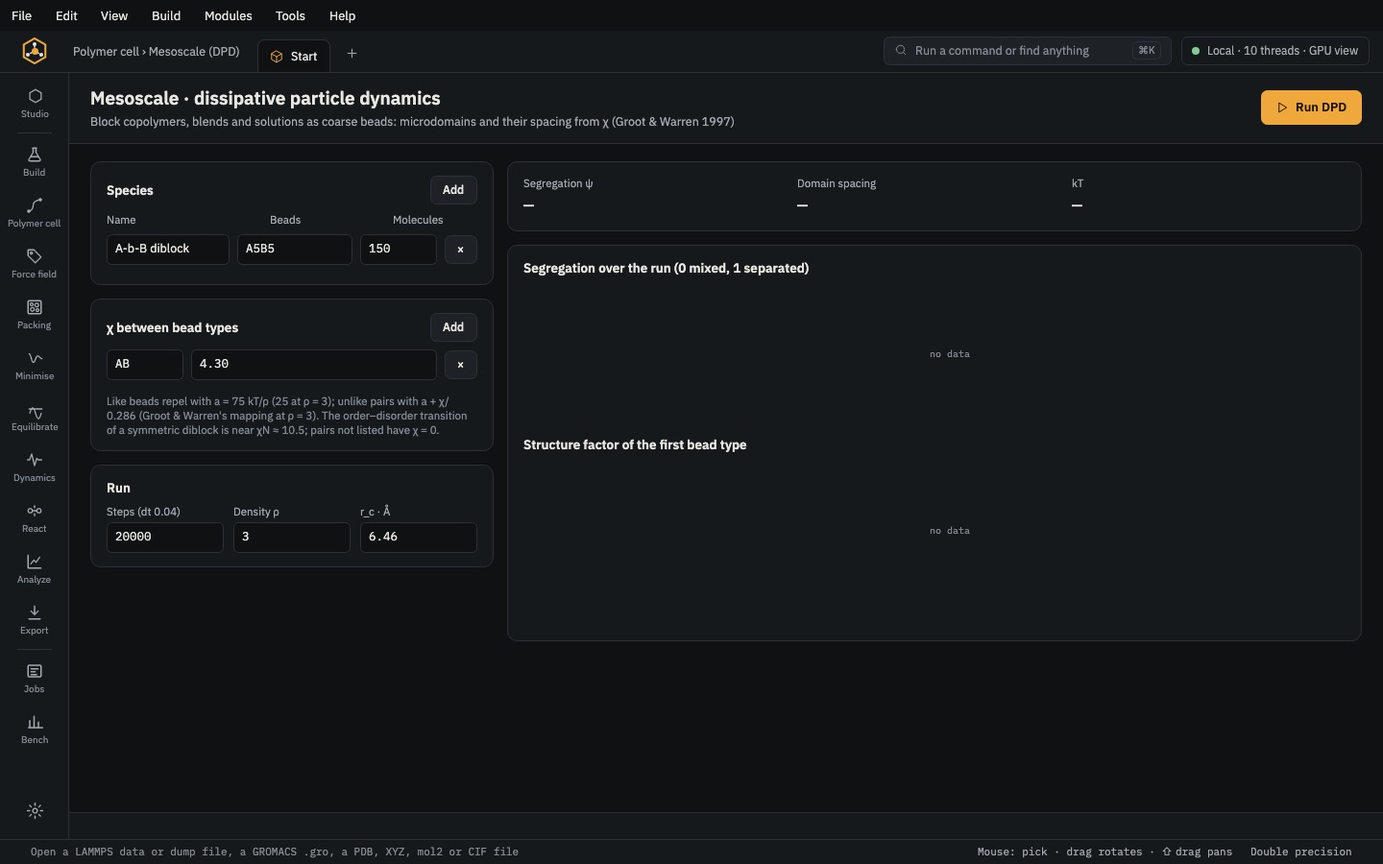
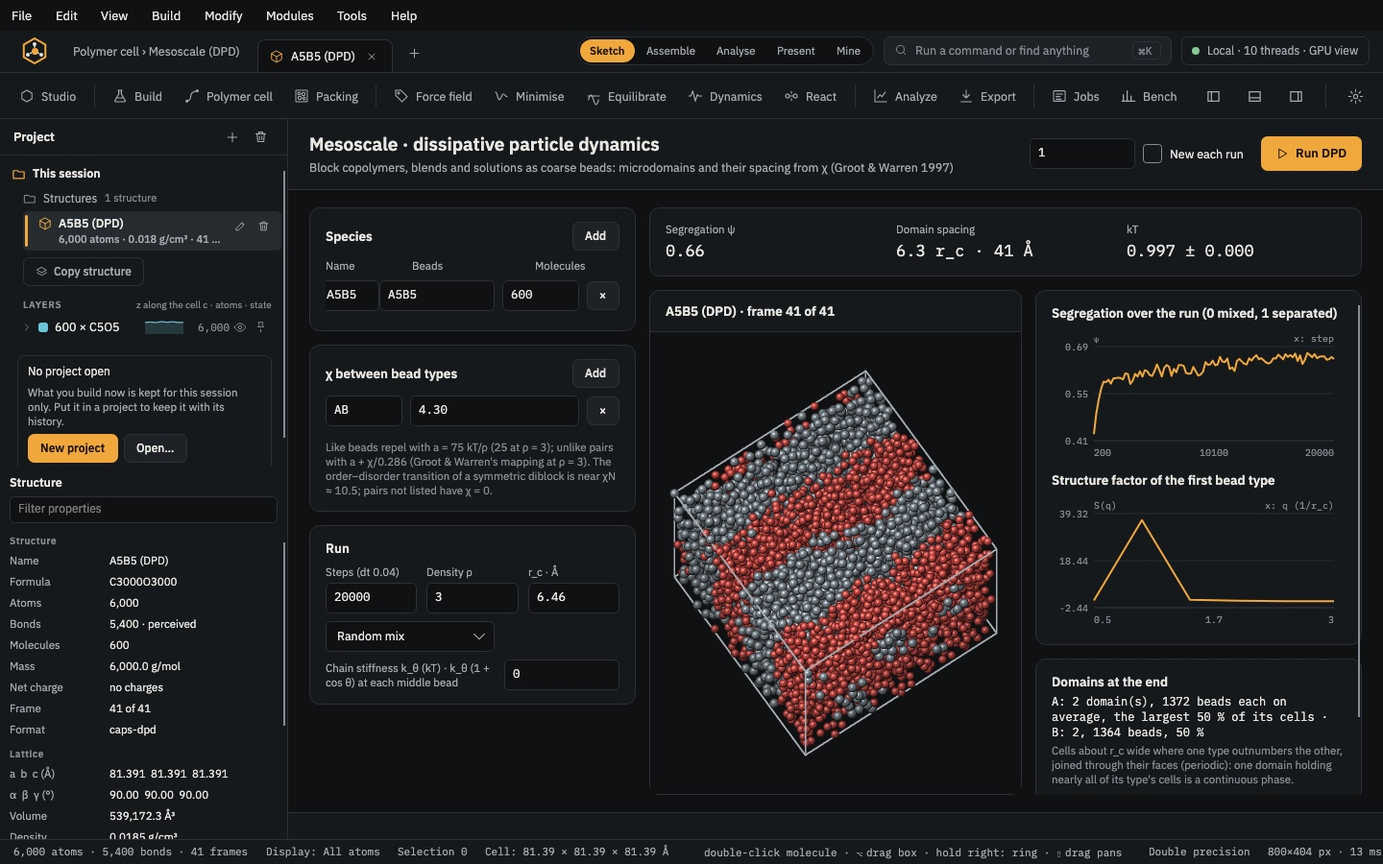
Module pages for DPD and Adsorption & sorption show real runs. The DPD page had no structure view, and its finished run opened on frame 1 (the random start), so the domains were never shown; the page now has its own view of the run's beads (space filling, coloured by bead type, in the cell) at the l

diff --git a/docs/modules/adsorption.html b/docs/modules/adsorption.html
@@ -24,8 +24,9 @@
 <nav class="toc" aria-label="On this page"><h2>Modules</h2><h3 class="stage-h"><i class="dot st-start"></i>Get started</h3><a href="start.html">Start</a><a href="studio.html">Studio</a><h3 class="stage-h"><i class="dot st-build"></i>Build</h3><a href="molecule.html">Molecule builder</a><a href="polymer.html">Polymer builder</a><a href="polymer-cell.html">Polymer cell</a><a href="blend.html">Blend</a><a href="packing.html">Packing</a><a href="solvation.html">Solvation</a><a href="crystal.html">Crystal</a><a href="surface.html">Surface &amp; interface</a><a href="nanostructure.html">Nanostructure</a><h3 class="stage-h"><i class="dot st-prepare"></i>Prepare</h3><a href="force-field.html">Force field</a><a href="minimise.html">Minimise</a><a href="equilibrate.html">Equilibrate</a><h3 class="stage-h"><i class="dot st-run"></i>Run</h3><a href="dynamics.html">Dynamics</a><a href="coarse-grained.html">Coarse-grained</a><a href="dpd.html">DPD</a><a href="adsorption.html" aria-current="page" class="on">Adsorption &amp; sorption</a><a href="dft.html">DFT workbench</a><h3 class="stage-h"><i class="dot st-react"></i>React</h3><a href="react.html">React</a><h3 class="stage-h"><i class="dot st-out"></i>Analyse &amp; export</h3><a href="analyze.html">Analyze</a><a href="export.html">Export</a><a href="jobs.html">Jobs</a><a href="project.html">Project &amp; methods</a></nav>
 <main>
 <header class="mod-hero"><p class="eyebrow"><i class="dot st-run"></i>Run · module 18</p><h1>Adsorption &amp; sorption</h1><p class="lede">Two Monte Carlo tools on a fixed substrate: the adsorption locator places molecules on a surface or in a pore by simulated annealing; sorption computes solubility, Henry constants and isotherms.</p><p class="where"><b>Open it</b> <span class="ui">Modules</span><i>›</i><span class="ui">Analysis</span><i>›</i><span class="ui">Adsorption locator…</span></p><dl class="io"><div><dt>You start with</dt><dd>A substrate (slab, crystal, pore or polymer cell) with a force field, and the adsorbate as SMILES.</dd></div><div><dt>You get</dt><dd>Adsorption energies and the lowest configurations; or Widom solubility and a GCMC isotherm.</dd></div></dl></header>
-<figure class="shot"><button type="button" class="zoom" aria-label="Show full size"><img src="../manual/img/25_adsorption.jpg" alt="Adsorption locator: the adsorbates, the search region and the lowest configurations found." width="1440" height="900" loading="eager" decoding="async"></button><figcaption><strong>Adsorption locator</strong>: the adsorbates, the search region and the lowest configurations found.</figcaption></figure>
+<figure class="shot"><button type="button" class="zoom" aria-label="Show full size"><img src="../manual/img/25_adsorption.jpg" alt="Adsorption locator: 16 CO₂ annealed above a two-layer graphene slab (30 × 30 Å, 672 fixed atoms, UFF), 3 cycles of 20,000 steps from 10⁴ K to 100 K. The CO₂ lie flat on the top face; adsorption energy −72.27 kcal/mol, dE/dN −4.98 kcal/mol per CO₂, with the energies sampled at the cold end and the lowest configuration of each cycle." width="1440" height="900" loading="eager" decoding="async"></button><figcaption><strong>Adsorption locator</strong>: 16 CO₂ annealed above a two-layer graphene slab (30 × 30 Å, 672 fixed atoms, UFF), 3 cycles of 20,000 steps from 10⁴ K to 100 K. The CO₂ lie flat on the top face; adsorption energy −72.27 kcal/mol, dE/dN −4.98 kcal/mol per CO₂, with the energies sampled at the cold end and the lowest configuration of each cycle.</figcaption></figure>
 <h2 id="steps">Step by step</h2><ol class="stepper"><li><div><h3>Open the substrate and assign its force field</h3><p>The substrate is held fixed; only the adsorbates move.</p></div></li><li><div><h3>Adsorption locator: add the adsorbates</h3><p>Under <strong>Adsorbates</strong>, <span class="ui">Add</span> each as SMILES (for example <code>O=C=O</code>) with its count.</p></div></li><li><div><h3>Choose where to search</h3><p><span class="ui">Above the substrate&#x27;s top face</span> (default) or <span class="ui">Anywhere in the cell</span>. Cycles 3, steps per cycle 20 000, annealing from 10⁴ K to 100 K.</p></div></li><li><div><h3>Press Locate</h3><p>The <strong>Adsorption energy</strong> table gives dE/dN per component; the lowest configurations become frames you can step through.</p></div></li><li><div><h3>Gas uptake: open Sorption</h3><p><strong>Modules › Analysis › Sorption (gas uptake)…</strong>: pick the sorbate (CO₂, CH₄, N₂, O₂, H₂O, He, H₂ or a SMILES) or a mixture, T, Widom insertions and the GCMC pressures, then <span class="ui">Compute</span>.</p><p>You get the solubility coefficient, Henry constant, the isotherm (mol/kg, cm³(STP)/cm³, q_st), selectivities for a mixture, and a map of where the sorbate sits.</p></div></li></ol>
+<div class="shots2"><figure class="shot"><button type="button" class="zoom" aria-label="Show full size"><img src="../manual/img/25b_sorption.jpg" alt="Sorption: CO₂ in a cis-1,4-polyisoprene (natural rubber) cell, 8 chains of 20 units at 0.85 g/cm³ with PCFF, 300 K. Widom insertion gives S = 1.79 cm³(STP)/(cm³·atm); the GCMC isotherm at 100, 300, 1000 and 3000 kPa reaches 1.12 mol/kg, with q_st from 4.7 to 4.4 kcal/mol." width="1440" height="900" loading="lazy" decoding="async"></button><figcaption><strong>Sorption</strong>: CO₂ in a cis-1,4-polyisoprene (natural rubber) cell, 8 chains of 20 units at 0.85 g/cm³ with PCFF, 300 K. Widom insertion gives S = 1.79 cm³(STP)/(cm³·atm); the GCMC isotherm at 100, 300, 1000 and 3000 kPa reaches 1.12 mol/kg, with q_st from 4.7 to 4.4 kcal/mol.</figcaption></figure></div>
 <h2 id="scripted">The same without the Studio</h2><p class="muted">Every Studio page calls the same core as the <code>caps</code> command and the <code>caps</code> Python package, so a step you clicked can be repeated in a script.</p>
 <div class="tabs" role="tablist"><button role="tab" type="button" aria-selected="true" data-tab="0">Python</button></div>
 <div class="tabpanel" data-panel="0"><div class="code" data-lang="Python"><pre><code>import caps

diff --git a/docs/modules/dpd.html b/docs/modules/dpd.html
@@ -24,8 +24,8 @@
 <nav class="toc" aria-label="On this page"><h2>Modules</h2><h3 class="stage-h"><i class="dot st-start"></i>Get started</h3><a href="start.html">Start</a><a href="studio.html">Studio</a><h3 class="stage-h"><i class="dot st-build"></i>Build</h3><a href="molecule.html">Molecule builder</a><a href="polymer.html">Polymer builder</a><a href="polymer-cell.html">Polymer cell</a><a href="blend.html">Blend</a><a href="packing.html">Packing</a><a href="solvation.html">Solvation</a><a href="crystal.html">Crystal</a><a href="surface.html">Surface &amp; interface</a><a href="nanostructure.html">Nanostructure</a><h3 class="stage-h"><i class="dot st-prepare"></i>Prepare</h3><a href="force-field.html">Force field</a><a href="minimise.html">Minimise</a><a href="equilibrate.html">Equilibrate</a><h3 class="stage-h"><i class="dot st-run"></i>Run</h3><a href="dynamics.html">Dynamics</a><a href="coarse-grained.html">Coarse-grained</a><a href="dpd.html" aria-current="page" class="on">DPD</a><a href="adsorption.html">Adsorption &amp; sorption</a><a href="dft.html">DFT workbench</a><h3 class="stage-h"><i class="dot st-react"></i>React</h3><a href="react.html">React</a><h3 class="stage-h"><i class="dot st-out"></i>Analyse &amp; export</h3><a href="analyze.html">Analyze</a><a href="export.html">Export</a><a href="jobs.html">Jobs</a><a href="project.html">Project &amp; methods</a></nav>
 <main>
 <header class="mod-hero"><p class="eyebrow"><i class="dot st-run"></i>Run · module 17</p><h1>DPD</h1><p class="lede">Mesoscale dissipative particle dynamics: describe species as bead strings, set χ between bead types, and watch blends and block copolymers segregate into domains.</p><p class="where"><b>Open it</b> <span class="ui">Modules</span><i>›</i><span class="ui">Mesoscale (DPD)…</span></p><dl class="io"><div><dt>You start with</dt><dd>Species written as bead strings (for example A5B5) and χ parameters between bead types.</dd></div><div><dt>You get</dt><dd>The segregation ψ, domain spacing, structure factor and the final domains.</dd></div></dl></header>
-<figure class="shot"><button type="button" class="zoom" aria-label="Show full size"><img src="../manual/img/24_dpd.jpg" alt="Mesoscale · dissipative particle dynamics: species, χ between bead types and the segregation over the run." width="1440" height="900" loading="eager" decoding="async"></button><figcaption><strong>Mesoscale · dissipative particle dynamics</strong>: species, χ between bead types and the segregation over the run.</figcaption></figure>
-<h2 id="steps">Step by step</h2><ol class="stepper"><li><div><h3>Add the species</h3><p>Under <strong>Species</strong>, <span class="ui">Add</span> each one with its name, its beads (for example <code>A5B5</code> for a symmetric diblock) and the number of molecules.</p></div></li><li><div><h3>Set χ between bead types</h3><p>Under <strong>χ between bead types</strong>, <span class="ui">Add</span> each pair with its Flory–Huggins χ.</p></div></li><li><div><h3>Set the run</h3><p>Steps (dt 0.04) 20 000, density ρ 3, r_c 6.46 Å. Start from a random mix, or seed lamellae, cylinders or spheres. Chain stiffness k_θ is optional.</p></div></li><li><div><h3>Press Run DPD</h3><p>Follow <strong>Segregation over the run</strong> and the structure factor of the first bead type; the result gives ψ, the domain spacing and the domains at the end.</p></div></li></ol>
+<figure class="shot"><button type="button" class="zoom" aria-label="Show full size"><img src="../manual/img/24_dpd.jpg" alt="Mesoscale · dissipative particle dynamics: 600 symmetric A5B5 diblocks (6,000 beads, ρ = 3) with χ_AB = 4.30 (χN = 43), 20,000 steps from a random mix. The last frame shows two lamellar periods (A grey, B red); ψ rises to 0.66 and S(q) peaks at q = 1.00/r_c, a spacing of 6.3 r_c (41 Å)." width="1440" height="900" loading="eager" decoding="async"></button><figcaption><strong>Mesoscale · dissipative particle dynamics</strong>: 600 symmetric A5B5 diblocks (6,000 beads, ρ = 3) with χ_AB = 4.30 (χN = 43), 20,000 steps from a random mix. The last frame shows two lamellar periods (A grey, B red); ψ rises to 0.66 and S(q) peaks at q* = 1.00/r_c, a spacing of 6.3 r_c (41 Å).</figcaption></figure>
+<h2 id="steps">Step by step</h2><ol class="stepper"><li><div><h3>Add the species</h3><p>Under <strong>Species</strong>, <span class="ui">Add</span> each one with its name, its beads (for example <code>A5B5</code> for a symmetric diblock) and the number of molecules.</p></div></li><li><div><h3>Set χ between bead types</h3><p>Under <strong>χ between bead types</strong>, <span class="ui">Add</span> each pair with its Flory–Huggins χ.</p></div></li><li><div><h3>Set the run</h3><p>Steps (dt 0.04) 20 000, density ρ 3, r_c 6.46 Å. Start from a random mix, or seed lamellae, cylinders or spheres. Chain stiffness k_θ is optional.</p></div></li><li><div><h3>Press Run DPD</h3><p>Follow <strong>Segregation over the run</strong> and the structure factor of the first bead type; the result gives ψ, the domain spacing and the domains at the end, and the page's view shows the beads of the last frame coloured by bead type.</p></div></li></ol>
 <h2 id="next">Where to go next</h2><div class="cards next"><a class="card shot-card" href="analyze.html"><img src="../manual/img/18_analyze.jpg" alt="" loading="lazy" width="1440" height="900"><span class="num"><i class="dot st-out"></i>Analyse &amp; export</span><b>Analyze</b><span>Density, g(r), chain statistics, Tg, moduli, diffusion, free volume, interfaces and crosslink density — each with CSV.</span></a></div>
 <nav class="pager"><a href="coarse-grained.html"><small>Previous</small>Coarse-grained</a><a class="next" href="adsorption.html"><small>Next</small>Adsorption &amp; sorption</a></nav>
 </main>

diff --git a/studio/CapsStudio/Screenshot.cs b/studio/CapsStudio/Screenshot.cs
@@ -119,6 +119,97 @@ internal static class Screenshot
                 for (int k = 0; k < 60; ++k) { Dispatcher.UIThread.RunJobs(); AvaloniaHeadlessPlatform.ForceRenderTimerTick(); Thread.Sleep(25); }
                 Console.WriteLine("cgflow: " + vm.CgwStatus);
             }
+            if (kv[0] == "dpd")   // dpd=SEQ*COUNT[+SEQ*COUNT]|CHI_AB|STEPS: Mesoscale (DPD) run with those species, awaited (e.g. A5B5*600|4.3|20000)
+            {
+                var vm = w.ViewModel;
+                var inv = System.Globalization.CultureInfo.InvariantCulture;
+                var f = kv[1].Split('|');
+                vm.OpenDpd();
+                vm.DpdSpecies.Clear();
+                foreach (var sp in f[0].Split('+'))
+                {
+                    var q = sp.Split('*');
+                    vm.DpdSpecies.Add(new ViewModels.DpdSpeciesRow { Name = q[0], Sequence = q[0], Count = decimal.Parse(q[1], inv) });
+                }
+                vm.DpdChis.Clear();
+                vm.DpdChis.Add(new ViewModels.DpdChiRow { Pair = "AB", Chi = decimal.Parse(f[1], inv) });
+                if (f.Length > 2) vm.DpdSteps = decimal.Parse(f[2], inv);
+                var t = vm.RunDpd();
+                while (!t.IsCompleted) { Dispatcher.UIThread.RunJobs(); AvaloniaHeadlessPlatform.ForceRenderTimerTick(); Thread.Sleep(20); }
+                for (int k = 0; k < 80; ++k) { Dispatcher.UIThread.RunJobs(); AvaloniaHeadlessPlatform.ForceRenderTimerTick(); Thread.Sleep(25); }
+                Console.WriteLine("dpd: " + vm.Status + (vm.DpdHasError ? " · error " + vm.DpdError : "") + " · " + vm.DpdNote + " · " + vm.DpdDomains);
+            }
+            if (kv[0] == "pageview")   // pageview=YAW,PITCH[,ZOOM]: the open page's own structure view turned to that camera
+            {
+                var c = kv[1].Split(',').Select(x => double.Parse(x, System.Globalization.CultureInfo.InvariantCulture)).ToArray();
+                foreach (var mv in w.GetVisualDescendants().OfType<Views.MolView>().Where(m => m.Name == "View" && m.IsEffectivelyVisible))
+                    mv.Camera = new Interop.CapsCamera { Yaw = c[0], Pitch = c[1], Zoom = c.Length > 2 ? c[2] : 1.0 };
+                for (int k = 0; k < 60; ++k) { Dispatcher.UIThread.RunJobs(); AvaloniaHeadlessPlatform.ForceRenderTimerTick(); Thread.Sleep(25); }
+            }
+            if (kv[0] == "pagescroll")   // pagescroll=end: the open page's own scroll viewers to their end (the side panels stay)
+            {
+                for (int k = 0; k < 10; ++k) { Dispatcher.UIThread.RunJobs(); AvaloniaHeadlessPlatform.ForceRenderTimerTick(); Thread.Sleep(20); }
+                foreach (var pg in w.GetVisualDescendants().OfType<Views.Pages.PageBase>().Where(p => p.IsEffectivelyVisible))
+                    foreach (var sv in pg.GetVisualDescendants().OfType<Avalonia.Controls.ScrollViewer>().Where(v => v.IsEffectivelyVisible && v.Extent.Height > v.Viewport.Height + 1))
+                        sv.Offset = new Avalonia.Vector(0, kv[1] == "end" ? sv.Extent.Height : double.Parse(kv[1], System.Globalization.CultureInfo.InvariantCulture));
+                for (int k = 0; k < 30; ++k) { Dispatcher.UIThread.RunJobs(); AvaloniaHeadlessPlatform.ForceRenderTimerTick(); Thread.Sleep(25); }
+            }
+            if (kv[0] == "sheet")   // sheet=LX,LY,LAYERS (Å, Å, count) on the Nanostructure builder's sheet, before nanobuild=1
+            {
+                var c = kv[1].Split(',').Select(x => decimal.Parse(x, System.Globalization.CultureInfo.InvariantCulture)).ToArray();
+                w.ViewModel.SheetLx = c[0]; w.ViewModel.SheetLy = c[1]; w.ViewModel.SheetLayers = c[2];
+                for (int k = 0; k < 20; ++k) { Dispatcher.UIThread.RunJobs(); Thread.Sleep(20); }
+            }
+            if (kv[0] == "growcell")   // growcell=POLYMER_ID:FF_ID:CHAINS:DP:DENSITY: a library polymer grown into a cell with that force field assigned
+            {
+                var vm = w.ViewModel;
+                var inv = System.Globalization.CultureInfo.InvariantCulture;
+                var parts = kv[1].Split(':');
+                vm.LoadPolymerLibrary();
+                if (vm.PolymerLibrary.FirstOrDefault(e => e.Id == parts[0]) is { } poly) { vm.UseLibrary(poly, null); vm.SendPolymerToGrow(); }
+                vm.GrowChainsD = int.Parse(parts[2], inv); vm.GrowDpD = decimal.Parse(parts[3], inv); vm.GrowDensityD = decimal.Parse(parts[4], inv);
+                vm.Field.FfIndex = vm.Field.Library.ToList().FindIndex(e => e.Id == parts[1]);
+                vm.SetModule(0);
+                var t = vm.Grow();
+                while (!t.IsCompleted) { Dispatcher.UIThread.RunJobs(); Thread.Sleep(20); }
+                for (int k = 0; k < 400 && vm.Field.Working; ++k) { Dispatcher.UIThread.RunJobs(); Thread.Sleep(25); }
+                Console.WriteLine($"growcell: {vm.Status} · field {vm.Field.ForceFieldName} incomplete={vm.Field.Incomplete}");
+            }
+            if (kv[0] == "adsorb")   // adsorb=SMILES*COUNT[+SMILES*COUNT]|CYCLES|STEPS: the Adsorption locator on the open structure, awaited
+            {
+                var vm = w.ViewModel;
+                var inv = System.Globalization.CultureInfo.InvariantCulture;
+                var f = kv[1].Split('|');
+                vm.OpenAdsorption();
+                vm.AdsRows.Clear();
+                foreach (var a in f[0].Split('+'))
+                {
+                    var q = a.Split('*');
+                    vm.AdsRows.Add(new ViewModels.AdsorbateRow { Smiles = q[0], Count = decimal.Parse(q[1], inv) });
+                }
+                if (f.Length > 1) vm.AdsCyclesD = decimal.Parse(f[1], inv);
+                if (f.Length > 2) vm.AdsStepsD = decimal.Parse(f[2], inv);
+                var t = vm.RunAdsorption();
+                while (!t.IsCompleted) { Dispatcher.UIThread.RunJobs(); AvaloniaHeadlessPlatform.ForceRenderTimerTick(); Thread.Sleep(20); }
+                for (int k = 0; k < 80; ++k) { Dispatcher.UIThread.RunJobs(); AvaloniaHeadlessPlatform.ForceRenderTimerTick(); Thread.Sleep(25); }
+                Console.WriteLine("adsorb: " + vm.Status + (vm.AdsHasError ? " · error " + vm.AdsError : "") + " · " + vm.AdsSplit + " · " + vm.AdsNote);
+            }
+            if (kv[0] == "sorb")   // sorb=SMILES|PRESSURES (kPa, comma-separated)|INSERTIONS|STEPS: Sorption in the open structure, awaited
+            {
+                var vm = w.ViewModel;
+                var inv = System.Globalization.CultureInfo.InvariantCulture;
+                var f = kv[1].Split('|');
+                vm.OpenSorption();
+                vm.Sorbate = f[0];
+                if (f.Length > 1) vm.SorbPressures = f[1].Replace(',', ' ');
+                if (f.Length > 2) vm.SorbInsertD = decimal.Parse(f[2], inv);
+                if (f.Length > 3) vm.SorbStepsD = decimal.Parse(f[3], inv);
+                var t = vm.RunSorption();
+                while (!t.IsCompleted) { Dispatcher.UIThread.RunJobs(); AvaloniaHeadlessPlatform.ForceRenderTimerTick(); Thread.Sleep(20); }
+                for (int k = 0; k < 80; ++k) { Dispatcher.UIThread.RunJobs(); AvaloniaHeadlessPlatform.ForceRenderTimerTick(); Thread.Sleep(25); }
+                Console.WriteLine("sorb: " + vm.Status + (vm.SorbHasError ? " · error " + vm.SorbError : "") + $" · W {vm.SorbW} · mu_ex {vm.SorbMu} · K_H {vm.SorbHenry} · S {vm.SorbS} · " +
+                    string.Join("; ", vm.SorbRows.Select(r => $"{r.Pressure} kPa {r.Loading} ({r.MolKg} mol/kg, {r.Heat} kcal/mol)")) + " · " + vm.SorbNote);
+            }
             if (kv[0] == "figure")   // figure=BG: Export › Figure with that background selected
             {
                 w.ViewModel.OpenFigure();

diff --git a/studio/CapsStudio/ViewModels/MainViewModel.Dpd.cs b/studio/CapsStudio/ViewModels/MainViewModel.Dpd.cs
@@ -109,7 +109,7 @@ public sealed partial class MainViewModel
             var title = string.Join(" + ", DpdSpecies.Select(r => r.Name)) + " (DPD)";
             var (doc, rep) = await Task.Run(() => CapsDocument.Dpd(json, (st, f) =>
             {
-                Avalonia.Threading.Dispatcher.UIThread.Post(() => DpdProgress = $"{st} · {f * 100:0} %");
+                Avalonia.Threading.Dispatcher.UIThread.Post(() => { if (DpdRunning) DpdProgress = $"{st} · {f * 100:0} %"; });   // a late report must not outlive the run
                 return !ct.IsCancellationRequested;
             }, title));
             var r = JsonNode.Parse(rep)!;
@@ -126,7 +126,11 @@ public sealed partial class MainViewModel
             DpdOrderSeries = ((JsonArray)r["order_series"]!).Select(p => (p![0]!.GetValue<double>(), p[1]!.GetValue<double>())).ToArray();
             DpdNote = string.Join(" · ", ((JsonArray)r["notes"]!).Select(x => (string?)x ?? ""));
             DpdRunning = false;   // the run is over: the frames can open (Show waits for no run)
+            doc.SetWrap(true);    // beads back into the box: the chains are unwrapped and would smear the domains across it
             Show(doc, title);
+            _dpdDoc = doc;
+            Frame = FrameMax;     // the domains at the end, not the random start
+            Raise(nameof(DpdHasBeads)); Raise(nameof(DpdViewTitle));
             GrownUnsaved = true;
             SetModule(72);
             Status = $"DPD: ψ {DpdOrder} · spacing {DpdSpacing} · the frames are open as a new structure";
@@ -135,6 +139,11 @@ public sealed partial class MainViewModel
         catch (Exception e) { DpdError = e.Message; }
         finally { DpdRunning = false; DpdProgress = ""; }
     }
+
+    private CapsDocument? _dpdDoc;
+    /// <summary>The run's beads are the open structure (the page's view shows them).</summary>
+    public bool DpdHasBeads => _dpdDoc != null && ReferenceEquals(_dpdDoc, _doc);
+    public string DpdViewTitle => DpdHasBeads ? $"{Title} · frame {_frame + 1} of {Frames}" : "Beads";
 
     private decimal _dpdAngleK;
     public decimal DpdAngleK { get => _dpdAngleK; set => Set(ref _dpdAngleK, Math.Clamp(value, 0m, 50m)); }

diff --git a/studio/CapsStudio/Views/Pages/DpdPage.axaml.cs b/studio/CapsStudio/Views/Pages/DpdPage.axaml.cs
@@ -1,3 +1,4 @@
+using Avalonia;
 using Avalonia.Controls;
 using Avalonia.Interactivity;
 using Avalonia.Markup.Xaml;
@@ -24,8 +25,29 @@ public partial class DpdPage : PageBase
                 var q = this.FindControl<LinePlot>("Sq")!;
                 q.RefY = null;
                 q.SetData(vm.DpdSq);
+                ShowView(vm);
+            };
+            // another frame, or another structure made active: the view follows while the page is shown
+            vm.PropertyChanged += (_, e) =>
+            {
+                if (IsVisible && e.PropertyName is nameof(MainViewModel.Frame) or nameof(MainViewModel.DpdHasBeads)) ShowView(vm);
             };
         };
+    }
+
+    /// <summary>The run's beads in the page's own view (only while they are the open structure).</summary>
+    private void ShowView(MainViewModel vm)
+    {
+        var view = this.FindControl<MolView>("View")!;
+        var doc = vm.DpdHasBeads ? vm.Document : null;
+        if (view.Document != doc) { view.Document = doc; if (doc != null) view.Reset(); }
+        else if (doc != null) view.Refresh();
+    }
+
+    protected override void OnPropertyChanged(AvaloniaPropertyChangedEventArgs change)
+    {
+        base.OnPropertyChanged(change);
+        if (change.Property == IsVisibleProperty && IsVisible && DataContext is MainViewModel vm) ShowView(vm);
     }
 
     private async void OnRun(object? s, RoutedEventArgs e) => await Vm.RunDpd();

diff --git a/studio/CapsStudio/ViewModels/MainViewModel.cs b/studio/CapsStudio/ViewModels/MainViewModel.cs
@@ -170,6 +170,7 @@ public sealed partial class MainViewModel : ObservableObject
                 NamedSets.Clear(); _selCount = 0; Raise(nameof(SelectedCount)); Raise(nameof(SelectedChip)); Dyads.Clear();
                 QueueSelBar();   // the bar, and the hidden / ghosted counts, of the new document
                 PackDocumentChanged();   // Packing's last result belongs to the structure it made
+                Raise(nameof(DpdHasBeads)); Raise(nameof(DpdViewTitle));   // the DPD page shows its run's beads only while they are the open structure
                 _rxAimDc = true;         // a new structure: the crosslinking panel sets the target again
                 _tagOnly = null;
                 Probes.Clear(); ProbeCards.Clear(); Raise(nameof(HasProbes)); Raise(nameof(HasProbeCards));   // probes are a structure's atoms
@@ -330,6 +331,7 @@ public sealed partial class MainViewModel : ObservableObject
             if (_doc == null || !Set(ref _frame, Math.Clamp(value, 0, FrameMax))) return;
             _doc.SetFrame(_frame);
             Raise(nameof(FrameLabel));
+            if (_module == 72) Raise(nameof(DpdViewTitle));
             if (_module == 32) { TrajUpdateValues(); TrajectoryChanged?.Invoke(); }
             if (_ixOpen && _ixLive) RunInteractions();
             if (_module == 34 && _syncFrame) SplitFrameB();

diff --git a/studio/CapsStudio/ViewModels/MainViewModel.Adsorption.cs b/studio/CapsStudio/ViewModels/MainViewModel.Adsorption.cs
@@ -17,7 +17,7 @@ public sealed record AdsComponentRow(string Name, string Molecules, string DeDn)
 public sealed record AdsConfigRow(string Rank, string Energy, string Cycle);
 
 /// <summary>Analyze › Adsorption locator: where adsorbate molecules sit on a substrate, by Monte Carlo simulated
-/// annealing with the assigned force field (core adsorption.hpp; the method of Materials Studio's Adsorption Locator).
+/// annealing with the assigned force field (core adsorption.hpp).
 /// The open structure is the substrate; the adsorbates are built from SMILES and added after it.</summary>
 public sealed partial class MainViewModel
 {
@@ -77,7 +77,7 @@ public sealed partial class MainViewModel
         {
             var res = await Task.Run(() => doc.Adsorption(json, (st, f) =>
             {
-                Avalonia.Threading.Dispatcher.UIThread.Post(() => AdsProgress = $"{st} · {f * 100:0} %");
+                Avalonia.Threading.Dispatcher.UIThread.Post(() => { if (AdsRunning) AdsProgress = $"{st} · {f * 100:0} %"; });   // a late report must not outlive the run
                 return !ct.IsCancellationRequested;
             }));
             var r = JsonNode.Parse(res)!;

diff --git a/studio/CapsStudio/SelfTest.cs b/studio/CapsStudio/SelfTest.cs
@@ -1391,6 +1391,9 @@ internal static class SelfTest
                   && MainViewModel.ExpandSequence("A2B3") == "AABBB" && vm.Document!.Provenance().Contains("dpd.run"),
                   $"DPD: ψ {vm.DpdOrder} · spacing {vm.DpdSpacing} · kT {vm.DpdKt} · {vm.DpdError}");
             Check(vm.DpdDomains.Contains("domain") && MainViewModel.ExpandSequence("A5(B3)A5") == "AAAAA(BBB)AAAAA", $"DPD domains: {vm.DpdDomains} · branched {MainViewModel.ExpandSequence("A5(B3)A5")}");
+            // the page's view holds the run's beads at the last frame (the domains, not the random start)
+            Check(vm.DpdHasBeads && vm.Frames > 1 && vm.Frame == vm.FrameMax && vm.DpdViewTitle.Contains($"frame {vm.Frames} of {vm.Frames}"),
+                  $"DPD view: beads {vm.DpdHasBeads} · frame {vm.Frame + 1} of {vm.Frames} · {vm.DpdViewTitle}");
             vm.SetModule(8);
         }
 

diff --git a/studio/CapsStudio/ViewModels/MainViewModel.Sorption.cs b/studio/CapsStudio/ViewModels/MainViewModel.Sorption.cs
@@ -112,7 +112,7 @@ public sealed partial class MainViewModel
         {
             var res = await Task.Run(() => doc.Sorption(json, (st, f) =>
             {
-                Avalonia.Threading.Dispatcher.UIThread.Post(() => SorbProgress = $"{st} · {f * 100:0} %");
+                Avalonia.Threading.Dispatcher.UIThread.Post(() => { if (SorbRunning) SorbProgress = $"{st} · {f * 100:0} %"; });   // a late report must not outlive the run
                 return !ct.IsCancellationRequested;
             }));
             var r = JsonNode.Parse(res)!;
